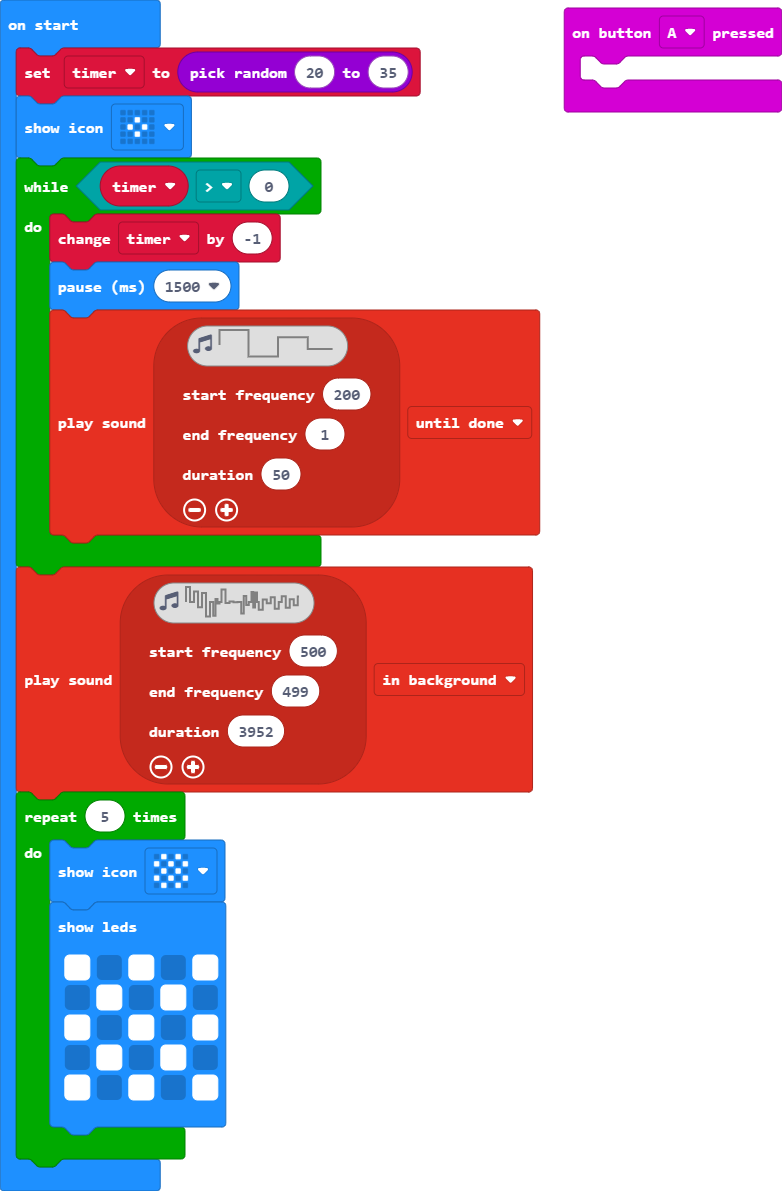
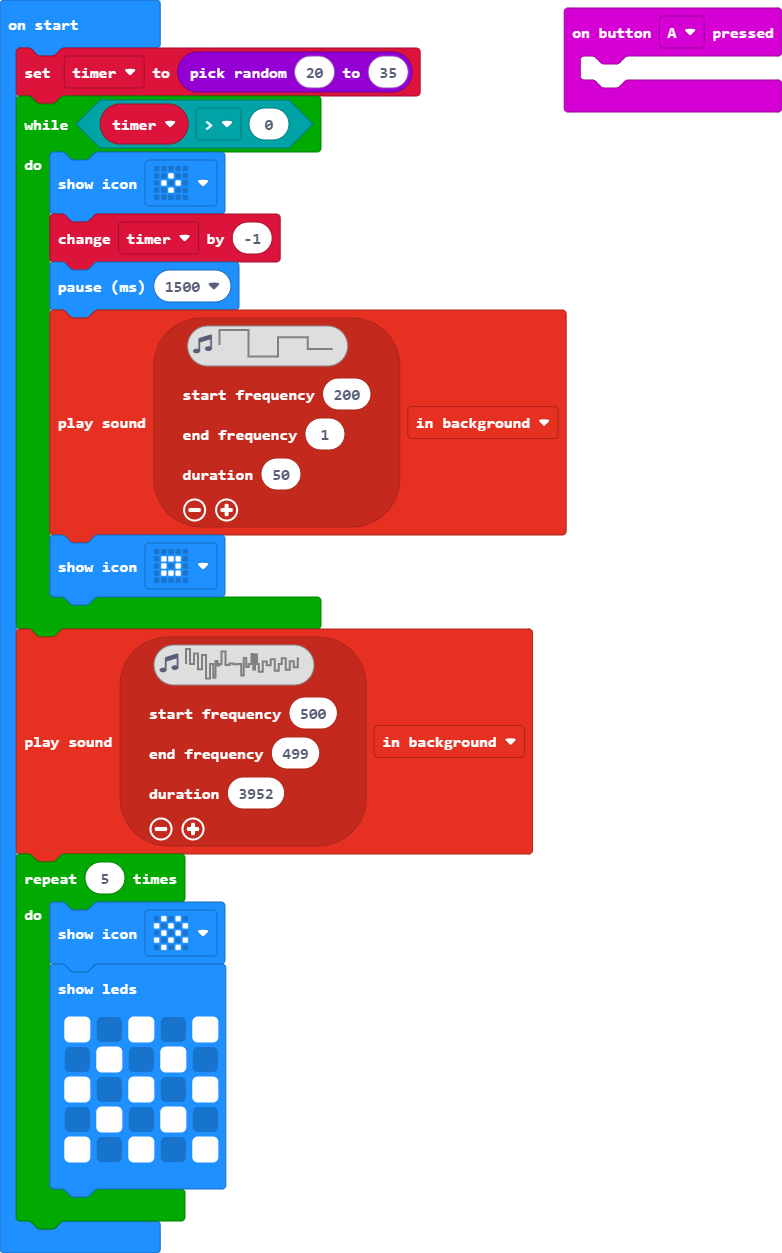
minor

diff --git a/main.ts b/main.ts
@@ -2,8 +2,8 @@ input.onButtonPressed(Button.A, function () {
 	
 })
 let timer = randint(20, 35)
-basic.showIcon(IconNames.SmallDiamond)
 while (timer > 0) {
+    basic.showIcon(IconNames.SmallDiamond)
     timer += -1
     basic.pause(1500)
     music.playSoundEffect(music.createSoundEffect(
@@ -15,7 +15,8 @@ while (timer > 0) {
     50,
     SoundExpressionEffect.None,
     InterpolationCurve.Curve
-    ), SoundExpressionPlayMode.UntilDone)
+    ), SoundExpressionPlayMode.InBackground)
+    basic.showIcon(IconNames.SmallSquare)
 }
 music.playSoundEffect(music.createSoundEffect(
 WaveShape.Noise,
